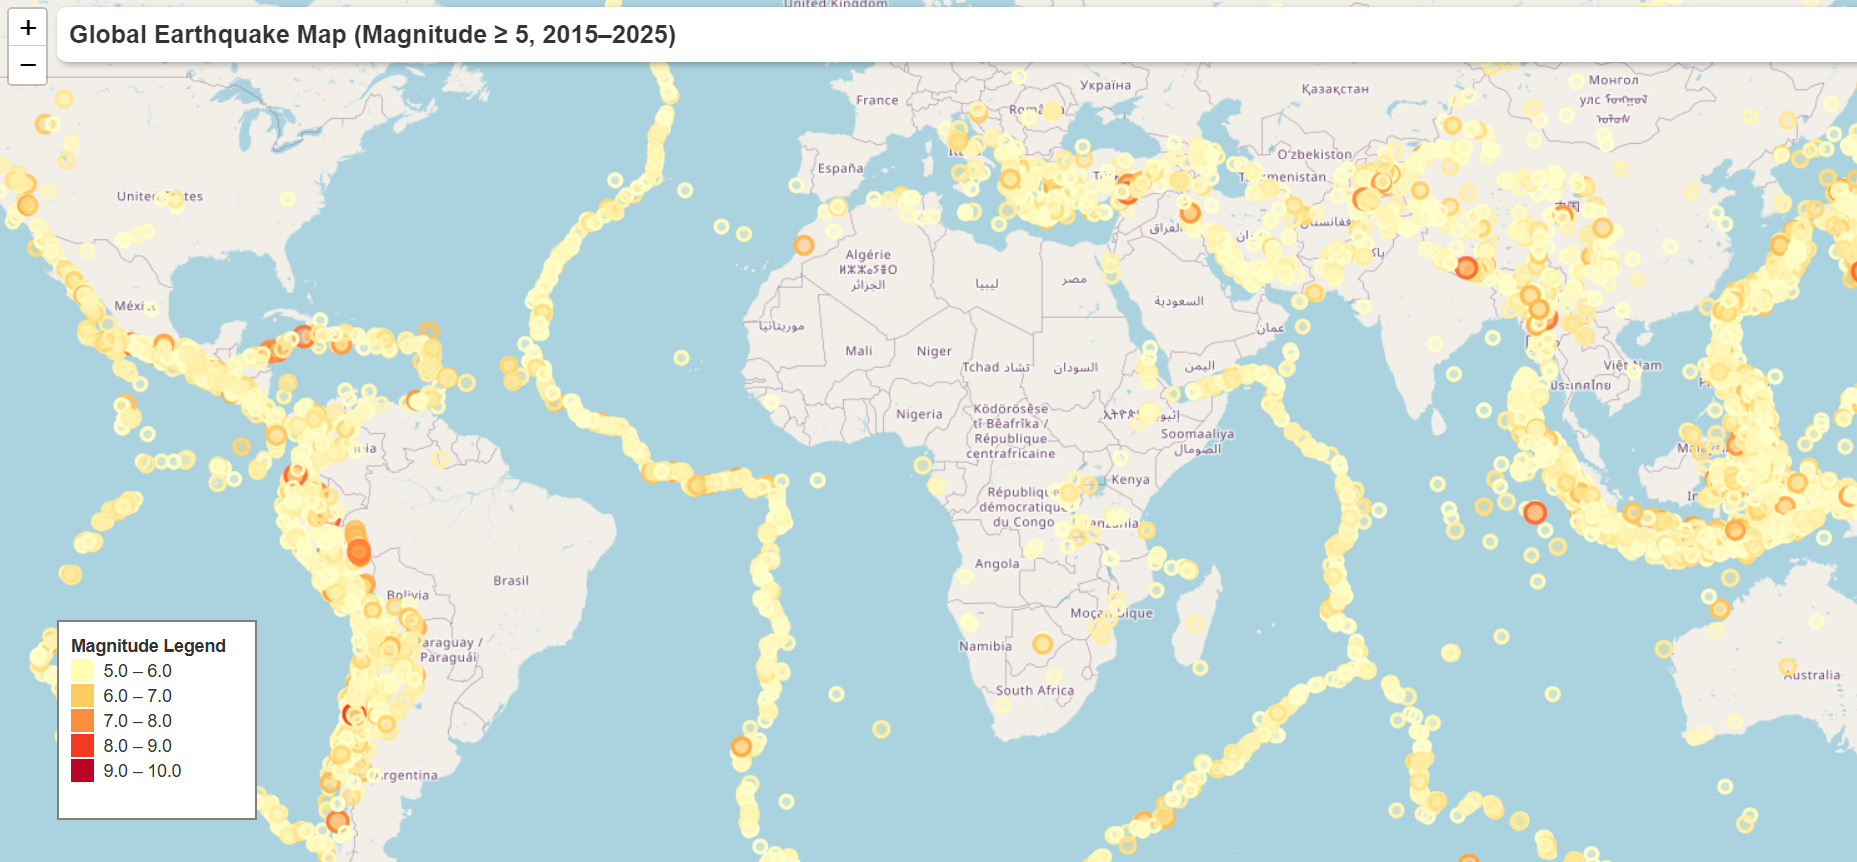
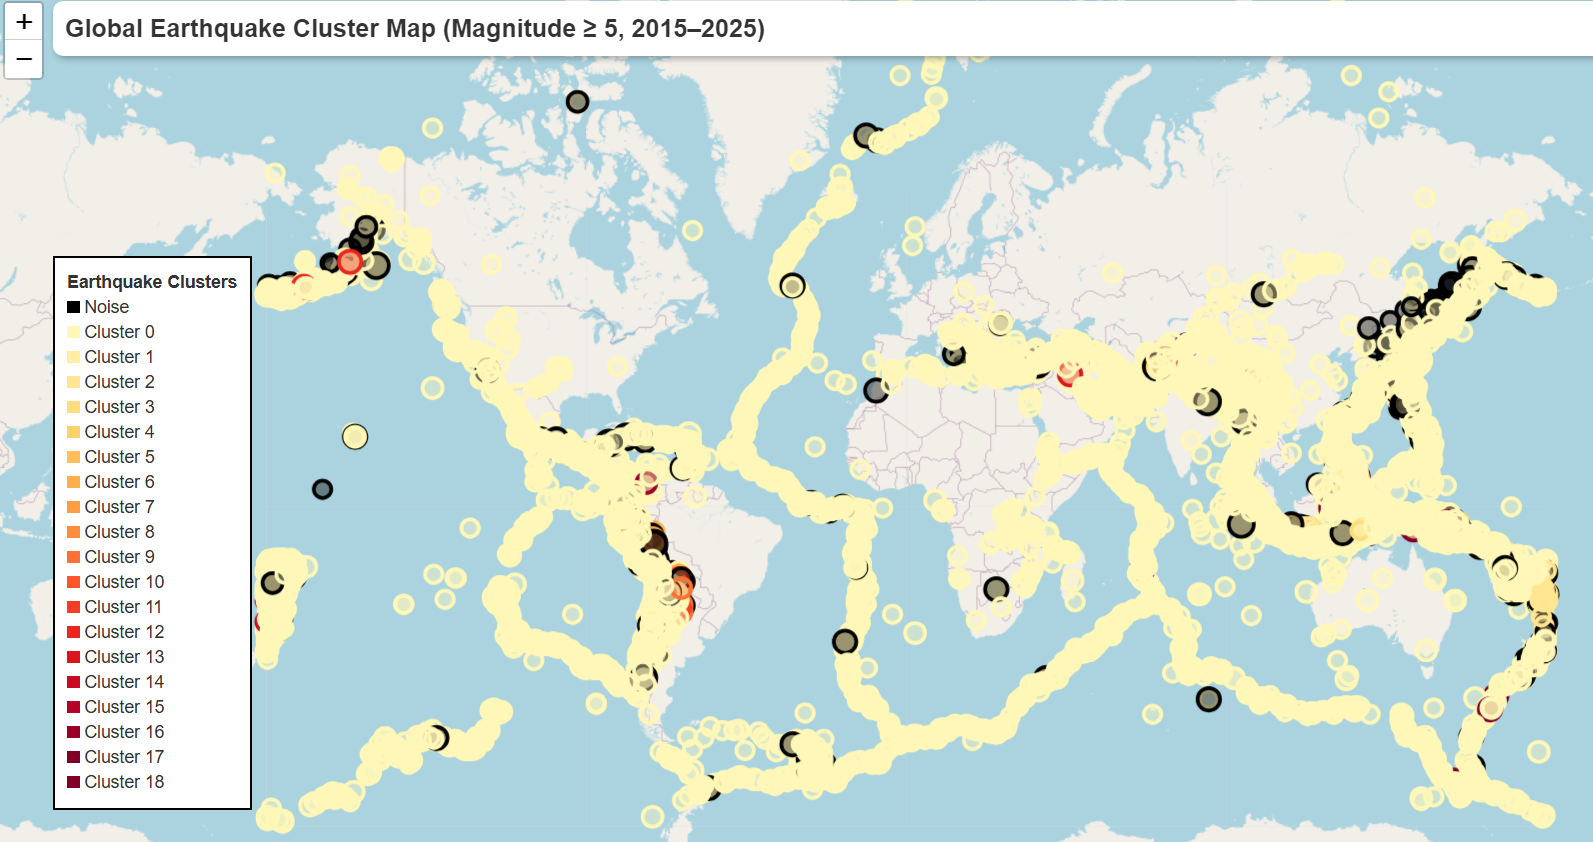
Added the new features of 2.0.0 to the readme file

diff --git a/README.md b/README.md
@@ -1,24 +1,24 @@
 # 🌍 Earthquake Data Dashboard with Folium
 
 ## 📌 Project Overview
-This project fetches global earthquake data from the USGS API, cleans it, visualizes it using Folium, and provides insights into earthquake frequency and magnitude across time and geography.
+This project retrieves global earthquake data from the USGS API, processes and cleans it, visualizes it using Folium, and provides insights into earthquake frequency and magnitude over time and across geographical regions. Additionally, the DBSCAN algorithm is applied to classify earthquakes into clusters for further analysis.
 
 ![Image Description](images/map.png)
 
 
 ## 🔍 Features
-- Dynamic magnitude-based color map (yellow → red)
-- Interactive map with popups
-- Summary statistics
-- Modular, reusable Python scripts
+- Dynamic magnitude-based color map (yellow → red).
+- Interactive maps to visualize earthquakes and the clusters generated by the DBSCAN model.
+- Summary statistics.
+- Modular, reusable Python scripts.
 
 ## 🛠 How to Run
 ```bash
 python visualize_earthquakes.py ''' If you want to visualize the data, two subplots will be generated
-                                    along with a Folium map in HTML. The figures are not yet programmed 
-                                    with block=False, so you need to close them to complete the script execution
-                                '''
-python analysis.py #If you want to check the insights and summary of the data.
+                                    along with a Folium map in HTML.'''
+
+python earthquakes_DBSCAN.py '''Generates clustered_earthquakes_map.html and non_noise_clustered_earthquakes_map.html files.'''
+python analysis.py  '''If you want to check the insights and summary of the data. '''
 ```
 ## Data Source and API
-More info here https://earthquake.usgs.gov/fdsnws/event/1/
+More info about the data in: https://earthquake.usgs.gov/fdsnws/event/1/
